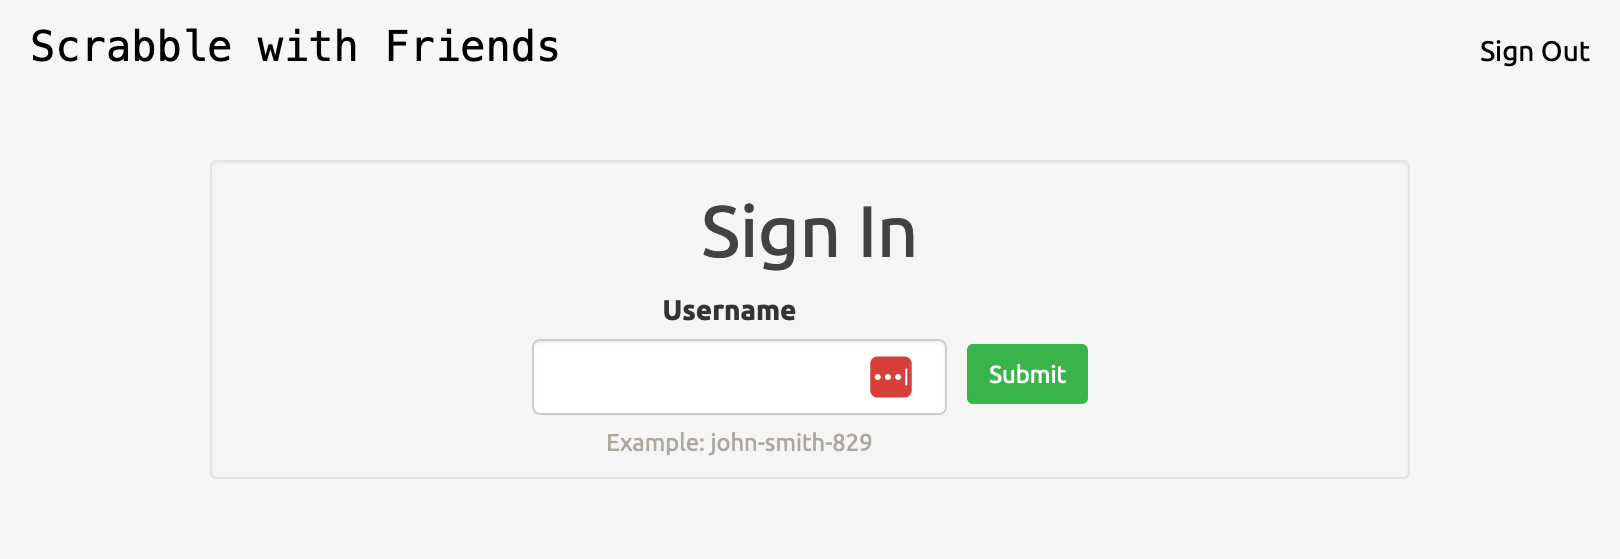
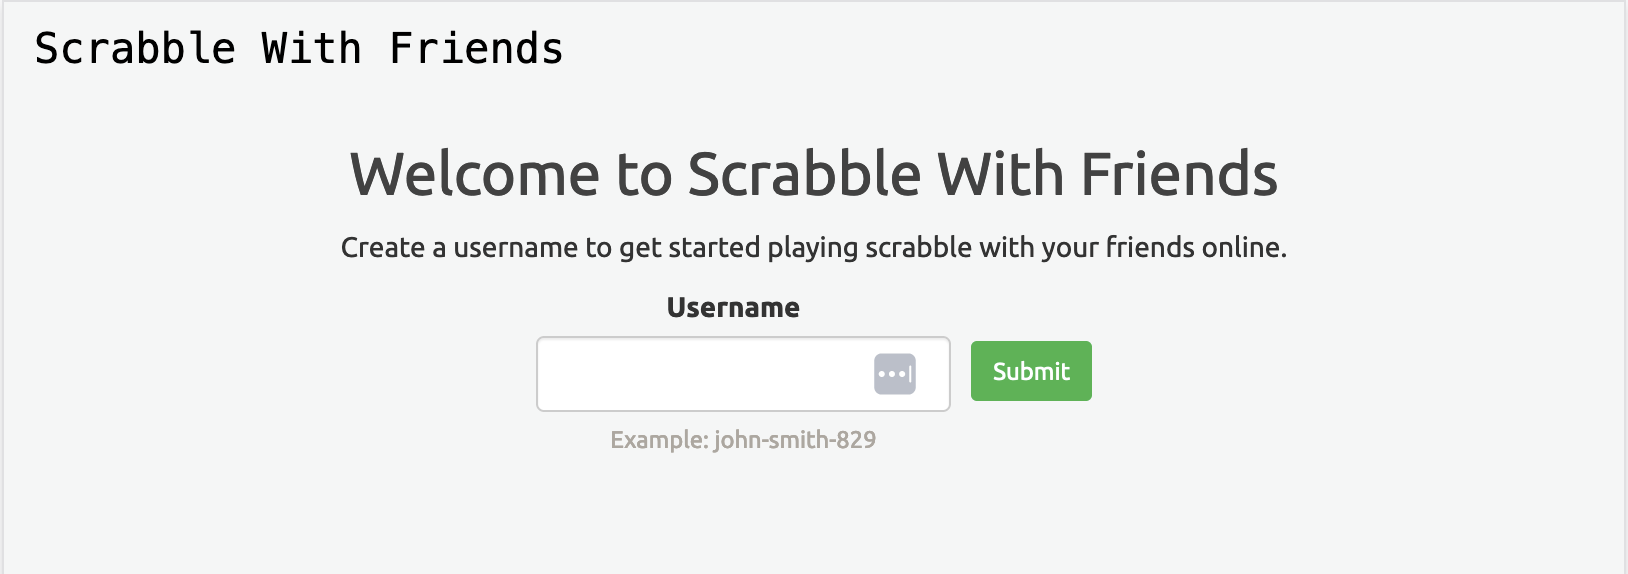
Remove find game, Improve games list, Extract start new game to separate page (#6)

diff --git a/app/assets/stylesheets/scrabble_with_friends/application.css b/app/assets/stylesheets/scrabble_with_friends/application.css
@@ -9,6 +9,12 @@
   --body-bg-color: #F5F6F6;
 }
 
+body{
+  background-color: var(--body-bg-color);
+  padding-bottom: 20px;
+  padding-top: calc(var(--navbar-height) + 20px);
+}
+
 a{
   color: inherit;
 }
@@ -21,6 +27,7 @@ a:hover, a:focus{
 .navbar{
   min-height: var(--navbar-height);
   background-color: var(--body-bg-color);
+  margin-bottom: 0;
 }
 
 .navbar a{
@@ -52,12 +59,6 @@ a:hover, a:focus{
 h1, h2, h3, h4, h5{
   margin-top: 0px;
   color: #424242;
-}
-
-body{
-  background-color: var(--body-bg-color);
-  padding-bottom: 20px;
-  padding-top: 80px;
 }
 
 label{

diff --git a/spec/request/games_controller_spec.rb b/spec/request/games_controller_spec.rb
@@ -14,12 +14,13 @@ RSpec.describe ScrabbleWithFriends::GamesController, type: :request do
   end
 
   def create_game
-    @game = ScrabbleWithFriends::Game.create!(password: :foo_password)
-    @game.players.create!(username: session[:scrabble_with_friends_username], tiles: [])
+    @game = ScrabbleWithFriends::Game.create!(name: :foo_name)
+    @game.players.create!(username: session[:scrabble_with_friends_username])
+    @game
   end
 
   def create_player
-    @game.players.create!(username: SecureRandom.hex(6), tiles: [])
+    @game.players.create!(username: SecureRandom.hex(6))
   end
 
   def create_turn
@@ -44,34 +45,60 @@ RSpec.describe ScrabbleWithFriends::GamesController, type: :request do
     it "renders" do
       get scrabble_with_friends.games_path
       expect(response.status).to eq(200)
-      expect(response.body).to include("Find Game")
+    end
+
+    it "renders game list" do
+      create_game
+
+      get scrabble_with_friends.games_path
+      expect(response.status).to eq(200)
+      expect(response.body).to include("Your Games")
+      expect(response.body).not_to include(scrabble_with_friends.game_path(@game))
+
+      get scrabble_with_friends.game_path(@game)
+      expect(response.status).to eq(200)
+
+      get scrabble_with_friends.games_path
+      expect(response.status).to eq(200)
+      expect(response.body).to include("Your Games")
+      expect(response.body).to include(scrabble_with_friends.game_path(@game))
+    end
+  end
+
+  context "new" do
+    it "renders" do
+      get scrabble_with_friends.new_game_path
+      expect(response.status).to eq(200)
     end
   end
 
   context "create" do
-    it "creates a new game without password" do
+    it "creates a new game without name" do
       post scrabble_with_friends.games_path, params: {}
       expect(response.status).to eq(302)
       @game = assigns(:game)
       expect(response).to redirect_to(scrabble_with_friends.game_path(@game))
     end
 
-    it "creates a new game with password" do
-      post scrabble_with_friends.games_path, params: {password: "some-password"}
+    it "creates a new game with name" do
+      post scrabble_with_friends.games_path, params: {name: "some-name"}
       expect(response.status).to eq(302)
       @game = assigns(:game)
       expect(response).to redirect_to(scrabble_with_friends.game_path(@game))
-      expect(@game.password).to eq("some-password")
+      expect(@game.name).to eq("some-name")
     end
 
     it "finds existing game and renders errors" do
-      create_game
-      create_turn
-      @game.players.destroy_all
-      post scrabble_with_friends.games_path, params: {password: @game.password}
+      name = "foo"
+
+      post scrabble_with_friends.games_path, params: {name: name}
+      expect(response.status).to eq(302)
+      expect(response).to redirect_to(scrabble_with_friends.game_path(assigns(:game)))
+
+      post scrabble_with_friends.games_path, params: {name: name}
       expect(response.status).to eq(302)
       expect(response).to redirect_to(scrabble_with_friends.games_path)
-      expect(flash[:alert]).to include("Game not saved. Please choose a different password.")
+      expect(flash[:alert]).to include("Game not saved. Please choose a different name.")
     end
   end
 
@@ -80,10 +107,19 @@ RSpec.describe ScrabbleWithFriends::GamesController, type: :request do
       create_game
     end
 
-    it "renders" do
+    it "renders waiting for game" do
       get scrabble_with_friends.game_path(@game)
       expect(response.status).to eq(200)
       expect(response.body).to include("board-square")
+      expect(response.body).to include("Waiting to Start Game")
+    end
+
+    it "renders game started" do
+      create_turn
+      get scrabble_with_friends.game_path(@game)
+      expect(response.status).to eq(200)
+      expect(response.body).to include("board-square")
+      expect(response.body).to include("Current Player")
     end
   end
 
@@ -304,6 +340,18 @@ RSpec.describe ScrabbleWithFriends::GamesController, type: :request do
       expect(response.status).to eq(302)
       expect(response).to redirect_to(scrabble_with_friends.game_path(@game))
       expect(@game.turns.reload.size).to eq(0)
+    end
+  end
+
+  context "destroy" do
+    before do
+      create_game
+    end
+
+    it "deletes the game" do
+      delete scrabble_with_friends.game_path(@game)
+      expect(response).to redirect_to(scrabble_with_friends.games_path)
+      expect(ScrabbleWithFriends::Game.find_by(id: @game.id)).to eq(nil)
     end
   end
 end

diff --git a/app/controllers/scrabble_with_friends/games_controller.rb b/app/controllers/scrabble_with_friends/games_controller.rb
@@ -18,39 +18,19 @@ module ScrabbleWithFriends
 
     def index
       _fetch_your_games
-
-      if params[:game_id].present?
-        params[:game_id] = params[:game_id].strip
-
-        if params[:game_id].start_with?("http")
-          params[:game_id] = params[:game_id].split("/").last
-        end
-
-        game = ScrabbleWithFriends::Game.find_by(
-          "public_id = :public_id OR password = :game_password",
-          public_id: params[:game_id],
-          game_password: params[:game_id].downcase,
-        )
-
-        if game
-          redirect_to(action: :show, id: game.public_id)
-        else
-          flash.now[:alert] = "Game not found."
-        end
-      end
     end
 
     def new
     end
 
     def create
-      ScrabbleWithFriends::Game.where("#{ScrabbleWithFriends::Game.table_name}.updated_at <= ?", 60.days.ago).each do |inactive_game|
-        inactive_game.destroy!
+      (ScrabbleWithFriends::Game.inactive_games.to_a + ScrabbleWithFriends::Game.orphaned_games.to_a).each do |game|
+        game.destroy!
       end
 
       game_saved = false
 
-      @game = ScrabbleWithFriends::Game.new(password: params[:password])
+      @game = ScrabbleWithFriends::Game.new(name: params[:name])
 
       game_saved = false
 
@@ -64,8 +44,11 @@ module ScrabbleWithFriends
 
       if game_saved
         redirect_to(action: :show, id: @game.to_param)
+      elsif @game.errors[:name].present?
+        flash.alert = "Game not saved. Please choose a different name."
+        redirect_to(action: :index)
       else
-        flash.alert = "Game not saved. Please choose a different password."
+        flash.alert = "Game not saved."
         redirect_to(action: :index)
       end
     end
@@ -228,7 +211,7 @@ module ScrabbleWithFriends
 
       @game.destroy!
 
-      redirect_to(action: :show)
+      redirect_to(action: :index)
     end
 
     private
@@ -585,9 +568,9 @@ module ScrabbleWithFriends
       return if game_ids.blank?
 
       @your_games = ScrabbleWithFriends::Game
-        .includes(:players, :turns)
+        .for_user(current_username)
         .where(public_id: game_ids)
-        .where(players: {username: current_username})
+        .includes(:players, :turns)
         .order(updated_at: :desc)
 
       session[YOUR_GAMES_SESSION_KEY] = @your_games.map(&:public_id)

diff --git a/app/models/scrabble_with_friends/game.rb b/app/models/scrabble_with_friends/game.rb
@@ -4,30 +4,35 @@ module ScrabbleWithFriends
     has_many :turns, class_name: "ScrabbleWithFriends::Turn", dependent: :destroy
 
     validate do
-      if new_record? && password.present? && self.class.find_by("public_id = :password OR password = :password", password: password)
-        self.errors.add(:password, "password already taken, please use a different one")
+      next if persisted? || name.nil?
+
+      existing_game = self.class
+        .for_user(Current.username)
+        .find_by(
+          "lower(name) = :name",
+          name: name.downcase,
+        )
+
+      if existing_game
+        self.errors.add(:name, "already taken")
       end
     end
     validates :public_id, uniqueness: {case_sensitive: true, allow_blank: true}
 
-    def password=(val)
-      self[:password] = val&.downcase
-    end
+    scope :inactive_games, -> { where("#{ScrabbleWithFriends::Game.table_name}.updated_at <= ?", 60.days.ago) }
+    scope :orphaned_games, -> { left_joins(:players).where(players: {id: nil}) }
+    scope :for_user, ->(username) { left_joins(:players).where(players: {username: Current.username}) }
 
-    before_create do
-      if password.present?
-        self.password = password.strip
+    before_validation do
+      if name.present?
+        self.name = name.strip
       else
-        self.password = nil
+        self.name = nil
       end
     end
 
     after_create do
       self.update_columns(public_id: ApplicationRecord.generate_public_id(id))
-    end
-
-    def name
-      self.password
     end
 
     def to_param
@@ -92,7 +97,7 @@ module ScrabbleWithFriends
     end
 
     def active_players
-      players.reject { |x| x.forfeitted? || x.tiles.empty? }
+      players.select(&:active?)
     end
 
     def last_turn

diff --git a/app/controllers/scrabble_with_friends/application_controller.rb b/app/controllers/scrabble_with_friends/application_controller.rb
@@ -5,6 +5,10 @@ module ScrabbleWithFriends
     helper_method :signed_in?
     helper_method :current_username
 
+    before_action do
+      Current.username = session[:scrabble_with_friends_username].presence
+    end
+
     def robots
       str = <<~STR
         User-agent: *
@@ -25,11 +29,11 @@ module ScrabbleWithFriends
     private
 
     def signed_in?
-      current_username.present?
+      Current.username.present?
     end
 
     def current_username
-      session[:scrabble_with_friends_username].presence
+      Current.username
     end
 
   end

diff --git a/spec/request/sessions_controller_spec.rb b/spec/request/sessions_controller_spec.rb
@@ -27,7 +27,7 @@ RSpec.describe ScrabbleWithFriends::SessionsController, type: :request do
     end
 
     it "redirects to requested game" do
-      @game = ScrabbleWithFriends::Game.create!(password: "foo")
+      @game = ScrabbleWithFriends::Game.create!(name: "foo")
       get scrabble_with_friends.game_path("foo")
       assert_equal(response.status, 302)
       assert_redirected_to scrabble_with_friends.sign_in_path

diff --git a/db/migrate/20240121001344_add_scrabble_with_friends_tables.rb b/db/migrate/20240121001344_add_scrabble_with_friends_tables.rb
@@ -2,7 +2,7 @@ class AddScrabbleWithFriendsTables < ActiveRecord::Migration[6.0]
   def change
     create_table :scrabble_with_friends_games do |t|
       t.string :public_id, index: true, unique: true
-      t.string :password
+      t.string :name
       t.timestamps
     end
 

diff --git a/app/models/scrabble_with_friends/current.rb b/app/models/scrabble_with_friends/current.rb
@@ -1,0 +1,5 @@
+module ScrabbleWithFriends
+  class Current < ActiveSupport::CurrentAttributes
+    attribute :username
+  end
+end

diff --git a/README.md b/README.md
@@ -15,6 +15,8 @@ Features:
 
 <img src="/screenshot_sign_in.png" alt="Screenshot: Sign In" width="500px" />
 
+<img src="/screenshot_start_new_game.png" alt="Screenshot: Start New Game" width="500px" />
+
 <img src="/screenshot_games_index.png" alt="Screenshot: Find or create game" width="500px" />
 
 <img src="/screenshot_waiting_to_start_game.png" alt="Screenshot: Waiting to Start Game" width="500px" />
